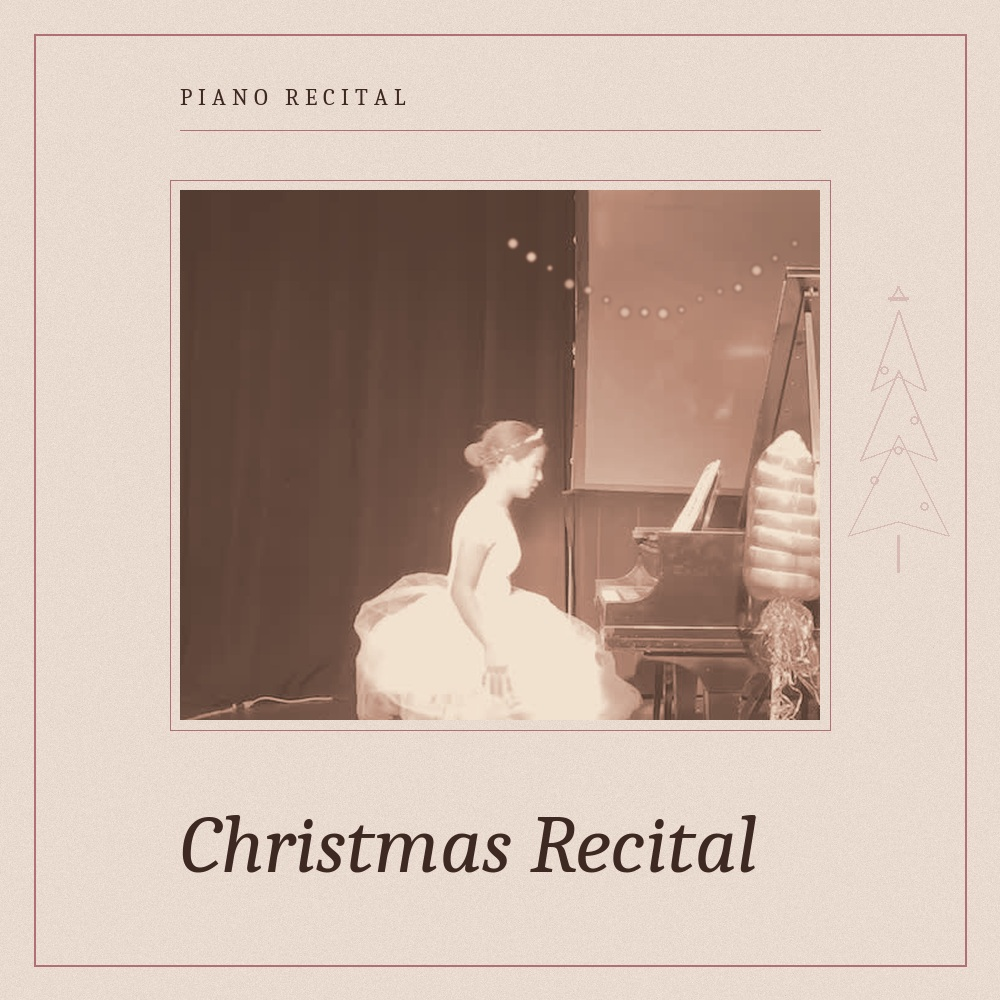
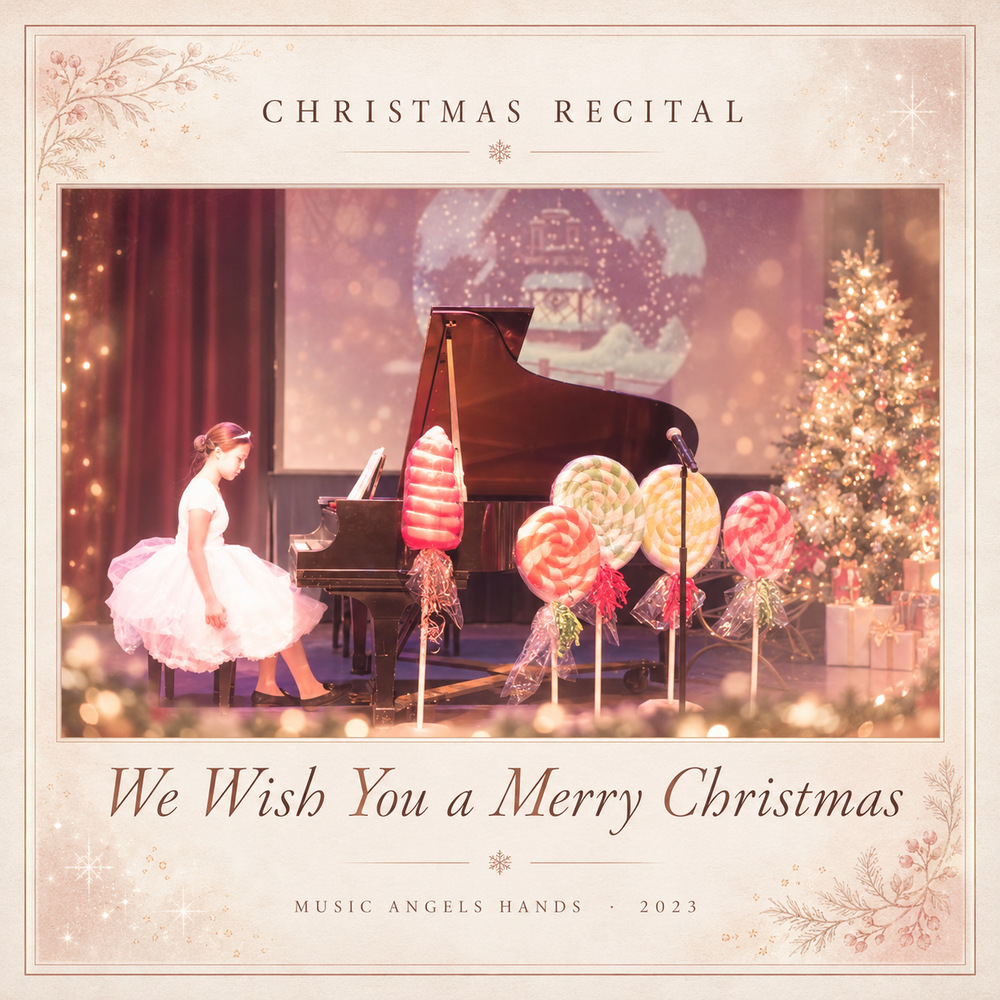
Add files via upload

diff --git a/perform.html b/perform.html
@@ -11,9 +11,10 @@
 <section class="page-top"><div><h1 class="page-title">PERFORM</h1><div class="page-key">D E P T H</div></div>
 <p class="page-intro">Learning a piece has taught me to be patient with the process. I’ve learned that small improvements, repeated over time, are what eventually bring the music together.</p></section>
 <!-- VIDEO THUMBNAILS (reusable): to change a card, edit only the <a href="..."> (video URL) and the <img src="..."> (cover art).
-     Each .video-thumb is a fixed 1:1 square; photos are never cropped or stretched (object-fit: contain). -->
+     Each .video-thumb is a fixed 1:1 square; the album covers are square so nothing is cropped. -->
 <section class="performance-grid">
-  <article class="performance-card"><a class="video-thumb" aria-label="Play video: Franz Schubert" href="https://www.youtube.com/watch?v=cYQ2L-mKK_U" target="_blank" rel="noopener"><img src="assets/images/perform-cover-schubert.jpg" alt="Recital cover: Ellen Hwang at the piano, Schubert Impromptu No. 2 in E-flat Major"><span class="play" aria-hidden="true"></span></a><h3>Franz Schubert</h3><p class="piece">Impromptu No. 2 in E♭ Major, Op. 90, D. 899</p><div class="meta">Recital · 2023</div></article>
-  <article class="performance-card"><a class="video-thumb" aria-label="Play video: Ludwig van Beethoven" href="https://www.youtube.com/watch?v=0i6xjaw6fP8" target="_blank" rel="noopener"><img src="assets/images/perform-cover-beethoven.jpg" alt="Recital cover: Ellen Hwang playing Beethoven Sonata No. 8 Pathétique"><span class="play" aria-hidden="true"></span></a><h3>Ludwig van Beethoven</h3><p class="piece">Sonata No. 8 “Pathétique,” Op. 13, I</p><div class="meta">Solo Piano · 2022</div></article>
-  <article class="performance-card"><a class="video-thumb" aria-label="Play video: Christmas Piano Performance" href="https://www.youtube.com/@EllenMusicHouse/videos" target="_blank" rel="noopener"><img src="assets/images/perform-cover-christmas.jpg" alt="Recital cover: Ellen Hwang at a Christmas piano performance"><span class="play" aria-hidden="true"></span></a><h3>Christmas Piano Performance</h3><p class="piece">Music Angels Hands</p><div class="meta">Community Performance · 2023</div></article>
+  <article class="performance-card"><a class="video-thumb" aria-label="Play video: Beethoven Pathétique" href="https://www.youtube.com/watch?v=m1dK7CErwRs" target="_blank" rel="noopener"><img src="assets/images/perform-cover-beethoven.jpg" width="1000" height="1000" alt="Recital cover: Beethoven, Pathétique, Piano Sonata No. 8 — Ellen Hwang at the piano"><span class="play" aria-hidden="true"></span></a><div class="perf-text"><h3>Ludwig van Beethoven</h3><p class="piece">Pathétique</p><div class="meta">Piano Solo · 2026</div></div></article>
+  <article class="performance-card"><a class="video-thumb" aria-label="Play video: Chopin Winter Wind" href="https://www.youtube.com/watch?v=gs_-P9weDXg" target="_blank" rel="noopener"><img src="assets/images/perform-cover-chopin.jpg" width="1000" height="1000" alt="Album cover: Chopin, Winter Wind, Étude Op. 25, No. 11 — Ellen Hwang at the piano"><span class="play" aria-hidden="true"></span></a><div class="perf-text"><h3>Frédéric Chopin</h3><p class="piece">Winter Wind</p><div class="meta">Piano Solo · 2026</div></div></article>
+  <article class="performance-card"><a class="video-thumb" aria-label="Play video: Schubert Impromptu No. 2" href="https://www.youtube.com/watch?v=AEQUGFSc490" target="_blank" rel="noopener"><img src="assets/images/perform-cover-schubert.jpg" width="1000" height="1000" alt="Recital cover: Schubert, Impromptu No. 2 — Ellen Hwang at Fullerton Public Library"><span class="play" aria-hidden="true"></span></a><div class="perf-text"><h3>Franz Schubert</h3><p class="piece">Impromptu No. 2</p><div class="meta">Piano Solo · Fullerton Public Library · 2023</div></div></article>
+  <article class="performance-card"><a class="video-thumb" aria-label="Play video: Christmas Recital" href="https://www.youtube.com/watch?v=9yF4Jh48KIw" target="_blank" rel="noopener"><img src="assets/images/perform-cover-christmas.jpg" width="1000" height="1000" alt="Album cover: Christmas Recital, We Wish You a Merry Christmas — Music Angels Hands, 2023"><span class="play" aria-hidden="true"></span></a><div class="perf-text"><h3>Christmas Recital</h3><p class="piece">We Wish You a Merry Christmas</p><div class="meta">Piano Solo · Music Angels Hands · 2023</div></div></article>
 </section></div></main><footer class="footer"><div class="container">© 2026 Ellen Hwang</div></footer><script src="script.js"></script></body></html>

diff --git a/lead.html b/lead.html
@@ -11,7 +11,7 @@
 <section class="page-top"><div><h1 class="page-title">LEAD</h1><div class="page-key">I N I T I A T I V E</div></div>
 <p class="page-intro">I’ve learned that leadership often starts with listening. From there, it means taking responsibility, bringing people together, and following through on what needs to be done.</p></section>
 <section class="lead-grid">
-  <article class="lead-panel"><img class="lead-primary" src="assets/images/lead-meeting.jpg" alt="Music Angels Hands planning meeting"><div class="lead-support"><img class="pos-kitchen" src="assets/images/lead-kitchen.jpg" alt="Music Angels Hands students preparing and serving food in a kitchen"><img src="assets/images/lead-choc-donation.jpg" alt="Music Angels Hands group at the CHOC Foundation with a $3,000 donation check"></div><h3>Co-President</h3><div class="role-meta">Music Angels Hands · 2025–2026</div><p class="lead-copy">Helps plan programs, coordinate members, organize activities, and follow through on ideas from start to finish.</p></article>
+  <article class="lead-panel"><img class="lead-primary" src="assets/images/lead-meeting.jpg" alt="Music Angels Hands planning meeting"><div class="lead-support"><img class="pos-kitchen" src="assets/images/lead-kitchen.jpg" alt="Music Angels Hands students preparing and serving food in a kitchen"><img src="assets/images/lead-choc-donation.jpg" alt="Music Angels Hands group at the CHOC Foundation with a $3,000 donation check"></div><h3>Co-President</h3><div class="role-meta">Music Angels Hands · Nonprofit Organization · 2025–2026</div><p class="lead-copy">Helps plan programs, coordinate members, organize activities, and follow through on ideas from start to finish.</p></article>
   <article class="newspaper-block"><div class="np-stage">
     <a class="np-main" href="assets/images/angels-times-page1-full.jpg" target="_blank" rel="noopener" aria-label="Open Angels Times, Issue 1, October 2023, page 1 at full size"><img src="assets/images/angels-times-page1-full.jpg" alt="Angels Times, Issue 1, October 2023, page 1: The Launch of Angel's Times, with Ellen Hwang's Editor's Introduction"><span class="np-ring" aria-hidden="true"></span></a>
     <svg class="np-conn" viewBox="0 0 100 100" preserveAspectRatio="none" aria-hidden="true"><line x1="63.6" y1="35.5" x2="69.8" y2="30.2" vector-effect="non-scaling-stroke"/></svg>

diff --git a/honors.html b/honors.html
@@ -9,9 +9,9 @@
       <a class="resume-btn" aria-disabled="true">RESUME</a>
     </div></header><main class="decor-page"><img class="floral left" src="assets/images/floral.png" alt=""><img class="floral right" src="assets/images/floral.png" alt=""><div class="container">
 <section class="page-top"><div><h1 class="page-title">HONORS</h1><div class="page-key">D I S C I P L I N E</div></div>
-<p class="page-intro">I’m grateful for these recognitions, but I value the time, consistency, and effort behind them even more.</p></section>
+<p class="page-intro">These are my four highest honors.</p></section>
 <section class="honors-grid">
-  <article class="honor-card"><div class="honor-icon"><img src="assets/images/award-star.png" alt=""></div><h3>National Merit Semifinalist</h3><div class="award">2026</div><div class="detail">National Merit Scholarship Corporation</div></article>
+  <article class="honor-card"><div class="honor-icon"><img src="assets/images/award-star.png" alt=""></div><h3>Satori Summer Music Festival</h3><div class="sub">Satori Young Pianist Contest</div><div class="award">2nd Place · 2026</div><div class="detail">Qualified Category</div></article>
   <article class="honor-card"><div class="honor-icon"><img src="assets/images/award-piano.png" alt=""></div><h3>American Protégé</h3><div class="sub">International Piano and Strings Competition</div><div class="award">2nd Place · 2026</div><div class="detail">Invited to perform at Carnegie Hall</div></article>
   <article class="honor-card"><div class="honor-icon"><img src="assets/images/award-laurel.png" alt=""></div><h3>Golden Classical Music Awards</h3><div class="sub">International Competition</div><div class="award">1st Place · 2024</div><div class="detail">Performed at Weill Recital Hall at Carnegie Hall</div></article>
   <article class="honor-card"><div class="honor-icon"><img src="assets/images/award-music.png" alt=""></div><h3>MTAC Advanced / Panel State Honors</h3><div class="sub">California Music Teachers Association</div><div class="award">State Honors</div><div class="detail">Advanced Level / Panel Honors</div></article>

diff --git a/styles.css b/styles.css
@@ -431,3 +431,31 @@ body.home .hero-photo img{transform-origin:50% 0;transform:translateY(calc(var(-
 .serve-page .serve-card:nth-child(2) img{object-position:center 30%}
 .serve-page .serve-card:nth-child(3) img{object-position:center 50%}
 @media (max-width:900px){.serve-page .serve-card img{height:auto;aspect-ratio:4/5}}
+
+/* ===== FINAL REVISION (Oct 14) ===== */
+/* Header: RESUME sits ~36px right of ABOUT (menu position unchanged). Desktop only. */
+@media (min-width:901px){
+  .resume-btn{justify-self:start;margin-left:22px}
+}
+
+/* PERFORM gallery only: 2x2 horizontal cards (cover left, three text lines right) */
+.performance-grid{grid-template-columns:repeat(2,minmax(0,1fr));gap:28px 32px;padding-top:20px}
+.performance-card{display:grid;grid-template-columns:clamp(190px,46%,270px) minmax(0,1fr);gap:24px;align-items:start}
+.performance-card .perf-text{padding-top:28px}
+.performance-card h3{margin:0 0 8px;font-size:21px;line-height:1.25}
+.performance-card .piece{font-size:18px;line-height:1.35;min-height:calc(2 * 1.35em);margin:0}
+.performance-card .meta{font-size:14px;line-height:1.45;margin-top:6px}
+@media (min-width:601px) and (max-width:900px){
+  .performance-grid{grid-template-columns:repeat(2,minmax(0,1fr));gap:26px 20px}
+  .performance-card{display:block;max-width:none;width:auto}
+  .performance-card .perf-text{padding-top:0}
+  .performance-card h3{margin:14px 0 6px;font-size:19px}
+  .performance-card .piece{font-size:16px}
+}
+@media (max-width:600px){
+  .performance-grid{grid-template-columns:1fr;gap:30px}
+  .performance-card{display:block;max-width:440px;margin-inline:auto}
+  .performance-card .perf-text{padding-top:0}
+  .performance-card h3{margin:14px 0 6px}
+  .performance-card .piece{min-height:0}
+}

diff --git a/serve.html b/serve.html
@@ -9,7 +9,7 @@
       <a class="resume-btn" aria-disabled="true">RESUME</a>
     </div></header><main class="decor-page"><img class="floral right" src="assets/images/floral.png" alt="" aria-hidden="true"><div class="container">
 <section class="page-top"><div><h1 class="page-title">SERVE</h1><div class="page-key">C O N N E C T I O N</div></div>
-<p class="page-intro">At Music Angels Hands, I help plan community programs, organize free concerts, and promote fundraisers such as our annual flea market. Piano has become one way I can serve—sharing music with people in the community while helping our group raise more than $11,000 for CHOC, Ronald McDonald House, and UCI.</p></section>
+<p class="page-intro">At Music Angels Hands, a nonprofit organization, I help plan community programs, organize free concerts, and promote fundraisers such as our annual flea market. Piano has become one way I can serve—sharing music with people in the community while helping our group raise more than $11,000 for CHOC, Ronald McDonald House, and UCI.</p></section>
 <section class="serve-grid">
   <article class="serve-card"><img src="assets/images/serve-flea-market.jpg" width="1024" height="1536" alt="Ellen Hwang holding the FLEA market sign outdoors to promote the Music Angels Hands fundraiser"><h3>Flea Market Fundraiser</h3><p>Planning and promoting our annual flea market.</p></article>
   <article class="serve-card"><img src="assets/images/serve-seniors-blue.jpg" width="1024" height="1536" alt="Ellen Hwang in a light blue dress greeting senior residents at a community event"><h3>Community Connection</h3><p>Connecting with seniors beyond the performance.</p></article>
